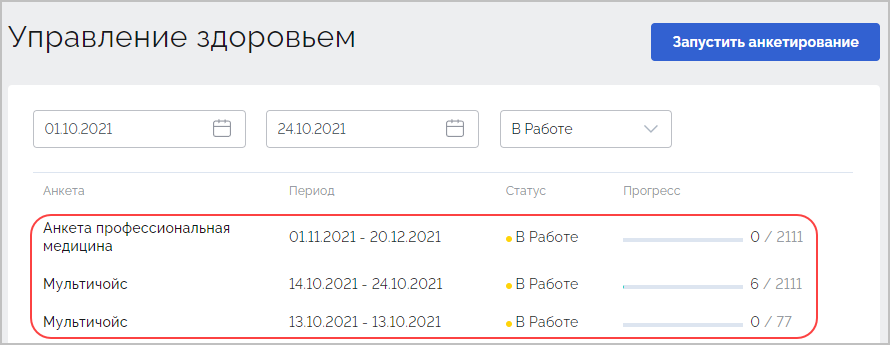
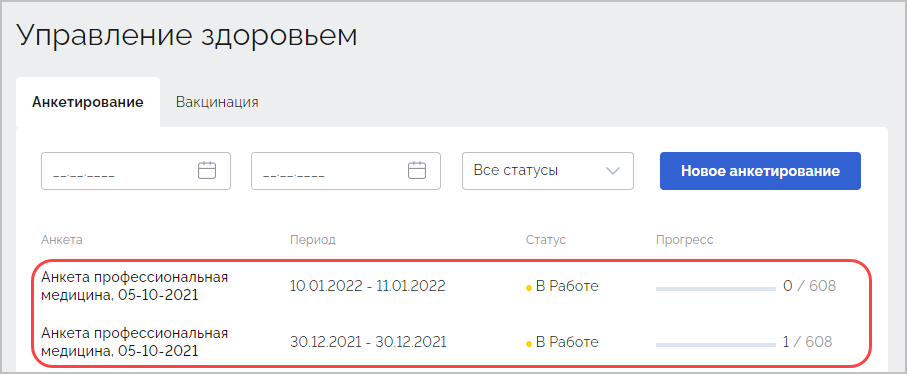
Обновлены скрины. Правки по тексту. Проработана вторая часть замечаний от Марии

diff --git a/РП Периметр-ПМ/perimetr_pm.md b/РП Периметр-ПМ/perimetr_pm.md
@@ -498,9 +498,9 @@
 Откроется страница **Новое анкетирование**. На данной странице выберите требуемые параметры анкетирования:
 
 - Анкета — выберите подходящий шаблон анкеты;
-- Укажите тип анкетирования: 
+- Укажите тип анкетирования:
   - Первичное — если система только запускается на предприятии;
-  - Ежегодное — если анкетирование плановое; 
+  - Ежегодное — если анкетирование плановое;
   - Целевое — если анкетирование направленно на группу сотрудников предприятия с определенными заболеваниями.
 - Укажите параметры очного приема:
   - Все — очный прием будут обязаны пройти все сотрудники, независимо от результатов анкетирования;
@@ -556,7 +556,7 @@
 
 ![выбор времени приема](img/waitlist4.png)
 
-Проверьте все указанные данные и нажмите кнопку **Записать**. 
+Проверьте все указанные данные и нажмите кнопку **Записать**.
 
 Для редактирования времени приема ранее записанного сотрудника в выбранном анкетировании, справа от даты приема нажмите значок в виде карандаша:
 
@@ -575,7 +575,7 @@
 
 ### Вакцинация
 
-Раздел **Вакцинация** предназначен для планирования объемов необходимых вакцин и содержит данные о завершенных, активных и предварительных планах вакцинации сотрудников предприятия. 
+Раздел **Вакцинация** предназначен для планирования объемов необходимых вакцин и содержит данные о завершенных, активных и предварительных планах вакцинации сотрудников предприятия.
 
 #### Создание плана вакцинации
 
@@ -585,7 +585,7 @@
 
 В открывшемся окне **Новый план вакцинации** выполните следующие действия:
 
-1. Укажите год начала вакцинации. 
+1. Укажите год начала вакцинации.
 2. Выберите план вакцинации — автоматический, вакцины в котором рекомендованы регламентами или пустой, в котором вакцины необходимо указывать вручную. В случае выбора автоматического плана вакцинации, станет доступна опция **Учитывать региональные риски**. Данный параметр определяет вакцины, которые будут добавлены в зависимости от региона, специальности сотрудника, возраста и хронических заболеваний.
 3. Нажмите кнопку **Создать**:
 
@@ -626,7 +626,7 @@
 
 ![статистика по вакцинации](img/vaccination8.png)
 
-Добавленный план вакцинации будет сохранен со статусом "Предварительный". На данном этапе будут подсчитаны сотрудники и количество необходимых для них вакцин. 
+Добавленный план вакцинации будет сохранен со статусом "Предварительный". На данном этапе будут подсчитаны сотрудники и количество необходимых для них вакцин.
 
 #### Запуск вакцинации
 
@@ -638,7 +638,7 @@
 
 ![продолжение](img/zapusk2.png)
 
-Статус плана вакцинации будет изменен на "Активный" (1). 
+Статус плана вакцинации будет изменен на "Активный" (1).
 
 В блоке **Сотрудники** (2) представлена информация о сотрудниках, принимающих участие в вакцинации либо отказавшись от нее.
 
@@ -733,7 +733,7 @@
 1. Данные по структуре подразделений. Необходимо загрузить до начала загрузки данных по сотрудникам предприятия.
 2. Данные по сотрудникам предприятия. Необходимы для работы системы.
 3. Данные по временной нетрудоспособности. Используются для построения отчетов по временной утрате нетрудоспособности сотрудников предприятия.
-4. Результаты ПМО. Необходимо загружать после прохождения сотрудниками предприятия предварительного медицинского осмотра во внешней клинике. 
+4. Результаты ПМО. Необходимо загружать после прохождения сотрудниками предприятия предварительного медицинского осмотра во внешней клинике.
 5. ДМС. Необходимо загружать после обращений сотрудников предприятия за медицинской помощью в рамках программы добровольного медицинского страхования. Данные используются для расчетов по пациентам и отчетности.
 6. СОУТ. Данные по условиям труда.
 
@@ -743,7 +743,7 @@
 
 ![тип данных для загрузки](img/import1.png)
 
-После выбора любого из типа данных, откроется окно загрузки файла. Нажмите кнопку **Выберите файлы…** и укажите путь к файлу в формате `.csv`. 
+После выбора любого из типа данных, откроется окно загрузки файла. Нажмите кнопку **Выберите файлы…** и укажите путь к файлу в формате `.csv`.
 
 ![выбор файлов](img/import2.png)
 
@@ -765,7 +765,7 @@
 
 ## Работа с организациями
 
-Для начала работы с системой необходимо добавить информацию по группам компаний, организациям,  локациям, медицинским службам, должностям и сотрудникам цеховой медицинской службы. Добавление требуемых данных осуществляется через раздел **Организации**. 
+Для начала работы с системой необходимо добавить информацию по группам компаний, организациям,  локациям, медицинским службам, должностям и сотрудникам цеховой медицинской службы. Добавление требуемых данных осуществляется через раздел **Организации**.
 
 > Раздел **Организации** доступен только пользователям с определенными правами.
 
@@ -793,7 +793,7 @@
 
 ### Добавление организации
 
-Для создания новой группы компаний перейдите в раздел **Организации** и в правом верхнем углу нажмите кнопку **Создать**:
+Для создания новой организации перейдите в раздел **Организации** и в правом верхнем углу нажмите кнопку **Создать**:
 
 ![создание организации](img/org1.png)
 
@@ -821,7 +821,7 @@
 
 В блоке **Ответственный менеджер СОГАЗ** (7) укажите Ф.И.О. менеджера.
 
- Проверьте указанные данные и нажмите кнопку **Создать** (8). 
+ Проверьте указанные данные и нажмите кнопку **Создать** (8).
 
 Созданная организация отобразится в соответствующем разделе. Для удаления созданной организации нажмите значок в виде корзины (1). Для внесения изменений в карточку созданной организации нажмите значок в виде карандаша (2):
 
@@ -863,7 +863,7 @@
 
 В случае, если ранее было добавлено хотя бы одно подразделение, а также добавлены цеховые службы, откроется окно следующего вида:
 
-![](img/podr3.png)
+![Окно подразделения](img/podr3.png)
 
 Укажите название и код подразделения. В зависимости от ранее добавленных подразделений или цеховых служб, укажите родительское подразделение и выберите цеховую службу. Если добавлена только одна цеховая служба, она будет выбрана автоматически. Нажмите кнопку **Создать**. На вкладке **Подразделения** будет добавлено новое подразделение:
 
@@ -893,7 +893,7 @@
 
 Для удаления цеховой службы нажмите значок в виде корзины. В открывшемся окне подтвердите удаление нажатием кнопки **Удалить**:
 
-![](img/ceh5.png)
+![Удаление цеховой службы](img/ceh5.png)
 
 Цеховая служба будет удалена из системы.
 
@@ -927,9 +927,20 @@
 
 Каждый импортируемый документ должен представлять собой файл формата `CSV UTF-8` с определенным набором данных. Содержимое файла — таблица, содержащая наименования и значения полей в соответствии с форматом импортируемого файла. Требования к форматам файлов представлены в следующих разделах Приложения 1.
 
-Для создания документа, сформируйте таблицу в любом редакторе таблиц, учитывая требования к формату создаваемого документа. Например:
+Для создания документа сформируйте таблицу в любом редакторе таблиц учитывая требования к формату создаваемого документа. Например:
 
 ![Пример таблицы](img/import7.png)
+
+Либо воспользуйтесь шаблоном импортируемого документа:
+
+| Документ                             | Шаблон                                                       |
+| ------------------------------------ | ------------------------------------------------------------ |
+| Структура подразделений площадки     | [Подразделения. Пример.csv](files\Подразделения. Пример.csv) |
+| Сотрудники предприятия               | [Сотрудники.Пример.csv](files\Сотрудники.Пример.csv)         |
+| Профессиональный медицинский осмотр  | [ПМО.Пример.csv](files\ПМО.Пример.csv)                       |
+| Учет временной нетрудоспособности    | [ВУТ.Пример.csv](files\ВУТ.Пример.csv)                       |
+| Добровольное медицинское страхование | [ДМС.Пример.csv](files\ДМС.Пример.csv)                       |
+| Оценка условий труда                 | [СОУТ.Пример.csv](files\СОУТ.Пример.csv)                     |
 
 Сохраните заполненную таблицу в формате `CSV UTF-8` и выполните импорт файла в соответствии с разделом **Импорт данных**.
 
@@ -951,21 +962,21 @@
 
 | Поле                    | Требование                                                   | Комментарий                                                  |
 | ----------------------- | ------------------------------------------------------------ | ------------------------------------------------------------ |
-| СНИЛС                   | Одиннадцатитизначная комбинация цифр, разделенных дефисом.   | Пример: **XXX-EEE-YYY ZZ**                                   |
-| Табельный номер         |                                                              | Пример: **1234**                                             |
+| UUID (СНИЛС)            | Одиннадцатитизначная комбинация цифр, разделенных дефисом.   | Пример: **XXX-EEE-YYY ZZ**                                   |
+| Табельный номер         | Должно быть заполнено                                        | Пример: **1234**                                             |
 | Фамилия                 | Должно быть заполнено                                        | Кириллицей, с заглавной буквы                                |
 | Имя                     | Должно быть заполнено                                        | Кириллицей, с заглавной буквы                                |
 | Отчество                | Должно быть заполнено                                        | Кириллицей, с заглавной буквы                                |
 | Дата рождения           | Дата вида дд.мм.гггг. Дата рождения не может быть больше даты загрузки файла, содержащего информацию по сотрудникам | Пример: **02.05.1987**                                       |
-| id подразделения        |                                                              | Берется из кадровой учетной системы предприятия.             |
 | Пол                     | Должно быть заполнено                                        | Значение **female** для женского или **male** для мужского пола |
+| id подразделения        | Должно быть заполнено                                        | Берется из кадровой учетной системы предприятия.             |
 | Должность               | С заглавной буквы. Если должность состоит из нескольких слов, слова необходимо разделить дефисом. Должно быть заполнено | Пример: **офис-менеджер**                                    |
-| Дата приема на работу   | Дата вида "дд.мм.гггг".                                      | Пример: **02.05.1987**                                       |
-| Адрес электронной почты | Должно быть заполнено в случае, если поле **Телефон** является пустым. Наличие в адресе символа "@" и точки в доменной части обязательно | Пример: **123@gmail.com**                                    |
-| Телефон                 | Начинается с 7, первые 5 цифр без пробела, дефис, 2 цифры, дефис, 3 цифры. Должно быть заполнено в случае, если поле **Адрес электронной почты** является пустым | Пример: **791099-99-999**                                    |
-| Профессиональная группа | Должно быть заполнено. Значения: офис или производство       | Пример: **производство**                                     |
-| Дата увольнения         | Дата вида "дд.мм.гггг".                                      | Пример: **02.05.1987**. Если сотрудник в штате, то никаких значений указывать не нужно. |
-| Тип занятости           | Должно быть заполнено. Значения: штатный или внештатный      | Пример: **штатный**                                          |
+| Дата принятия на работу | Дата вида "дд.мм.гггг".                                      | Пример: **02.05.1987**                                       |
+| email                   | Должно быть заполнено в случае, если поле **Телефон** является пустым. Наличие в адресе символа "@" и точки в доменной части обязательно | Пример: **123@gmail.com**                                    |
+| телефон                 | Начинается с 7, первые 5 цифр без пробела, дефис, 2 цифры, дефис, 3 цифры. Должно быть заполнено в случае, если поле **Адрес электронной почты** является пустым | Пример: **791099-99-999**                                    |
+| профессиональная группа | Должно быть заполнено. Значения: офис или производство       | Пример: **производство**                                     |
+| дата увольнения         | Дата вида "дд.мм.гггг".                                      | Пример: **02.05.1987**. Если сотрудник в штате, то никаких значений указывать не нужно. |
+| тип занятости           | Должно быть заполнено. Значения: штатный или внештатный      | Пример: **штатный**                                          |
 
 ### Результаты ПМО
 
@@ -982,7 +993,7 @@
 | Группа здоровья                               | Должно быть заполнено                                        | Значение I, II или III                                       |
 | Диагноз МКБ-10                                |                                                              | Код диагноза. В соответствии с международной классификацией болезней. В случае отсутствия кода, оставьте поля пустыми. |
 | Впервые выявленное заболевание (+/-)          |                                                              | В случае соответствия установите +. В случае несоответствия установите - |
-| Необходимость доопследования (+/-)            |                                                              | В случае соответствия установите +. В случае несоответствия установите - |
+| Необходимость дообследования (+/-)            |                                                              | В случае соответствия установите +. В случае несоответствия установите - |
 | Необходимость амб. обслед. и леч. (+/-)       |                                                              | В случае соответствия установите +. В случае несоответствия установите - |
 | Необходимость стац. обсл. и леч.  (+/-)       |                                                              | В случае соответствия установите +. В случае несоответствия установите - |
 | Необходимость сан.-кур. леч.  (+/-)           |                                                              | В случае соответствия установите +. В случае несоответствия установите - |
@@ -990,7 +1001,7 @@
 
 ### ВУТ
 
-Требования к формату импортируемого файла для загрузки данных учета временной утраты нетрудоспособности:
+Требования к формату импортируемого файла для загрузки данных учета временной утраты трудоспособности:
 
 | Поле                           | Требование                                                   | Поле                                                         |
 | ------------------------------ | ------------------------------------------------------------ | ------------------------------------------------------------ |
@@ -1013,20 +1024,18 @@
 
 | Поле                                     | Требование                                                   | Комментарий                                                  |
 | ---------------------------------------- | ------------------------------------------------------------ | ------------------------------------------------------------ |
-| Дата рождения                            | Дата вида "дд.мм.гггг"                                       | Пример: **02.05.1987**                                       |
 | UID                                      | Должно быть заполнено. Одиннадцатитизначная комбинация цифр, разделенных дефисом. | СНИЛС. Пример: **XXX-EEE-YYY ZZ**                            |
 | Наименование вида медицинского обращения | Должно быть заполнено                                        | Варианты: Экстренная госпитализация, Плановая госпитализация, Амбулаторно-поликлиническое обслуживание, Телемедицинские услуги |
 | Дата начала оказания услуги              | Дата вида дд.мм.гггг. Должно быть заполнено. Не может быть больше даты загрузки файла | Пример: **01.02.2022**                                       |
-| Дата завершения оказания услуги          | Дата вида дд.мм.гггг. Должно быть заполнено. Не может быть больше даты загрузки файла | Дата вида дд.мм.гггг. Пример: **15.02.2022**                 |
-| Код диагноз по МКБ-10                    | Должно быть заполнено                                        | Код диагноза. В соответствии с международной классификацией болезней |
-| Название диагноза по МКБ                 | Должно быть заполнено                                        | Название диагноза. В соответствии с международной классификацией болезней |
+| Дата окончания оказания услуги           | Дата вида дд.мм.гггг. Должно быть заполнено. Не может быть больше даты загрузки файла | Дата вида дд.мм.гггг. Пример: **15.02.2022**                 |
+| Код услуги по МКБ 10                     | Должно быть заполнено                                        | Код диагноза. В соответствии с международной классификацией болезней |
+| Наименование услуги по МКБ 10            | Должно быть заполнено                                        | Название диагноза. В соответствии с международной классификацией болезней |
 
 ### СОУТ
 
-Требования к формату импортируемого файла для загрузки данных по оценки условий труда:
+Требования к формату импортируемого файла для загрузки данных по оценке условий труда:
 
-| Поле           | Требование                                                   | Комментарий                                                  |
-| -------------- | ------------------------------------------------------------ | ------------------------------------------------------------ |
-| СНИЛС          | Одинадцатитизначная комбинация цифр, разделенных дефисом. Должно быть заполнено | Одинадцатитизначная комбинация цифр, разделенных дефисом. Пример: **XXX-EEE-YYY ZZ** |
-| Факторы рисков | Код по МКБ10                                                 | Наименование вредных или опасных производственных факторов в соответствии с приказом Минздрава России от 28.01.2021 N 29н |
-
+| Поле                     | Требование                                                   | Комментарий                                                  |
+| ------------------------ | ------------------------------------------------------------ | ------------------------------------------------------------ |
+| Employer_uuid            | Одинадцатитизначная комбинация цифр, разделенных дефисом. Должно быть заполнено | СНИЛС. Одинадцатитизначная комбинация цифр, разделенных дефисом. Пример: **XXX-EEE-YYY ZZ** |
+| factor_code (Приказ 29Н) | Код по МКБ10                                                 | Наименование вредных или опасных производственных факторов в соответствии с приказом Минздрава России от 28.01.2021 N 29н |
